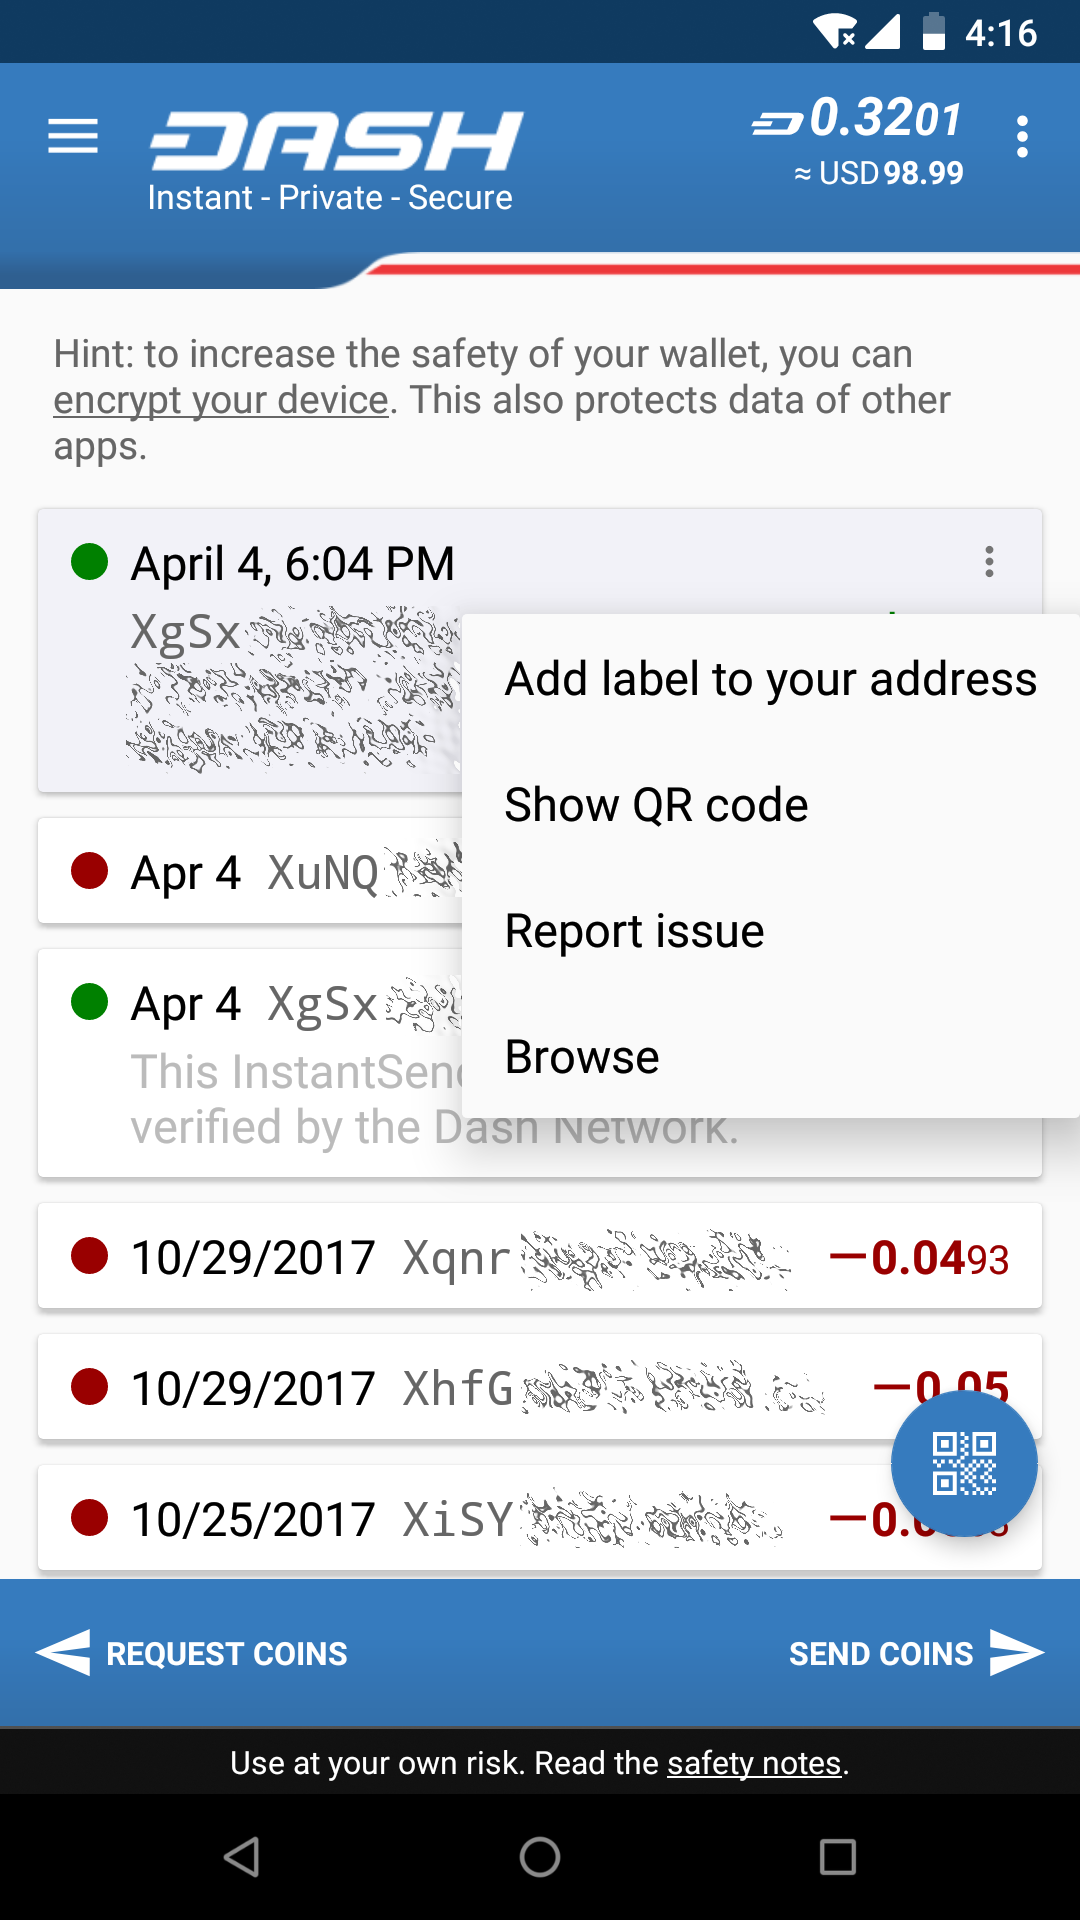
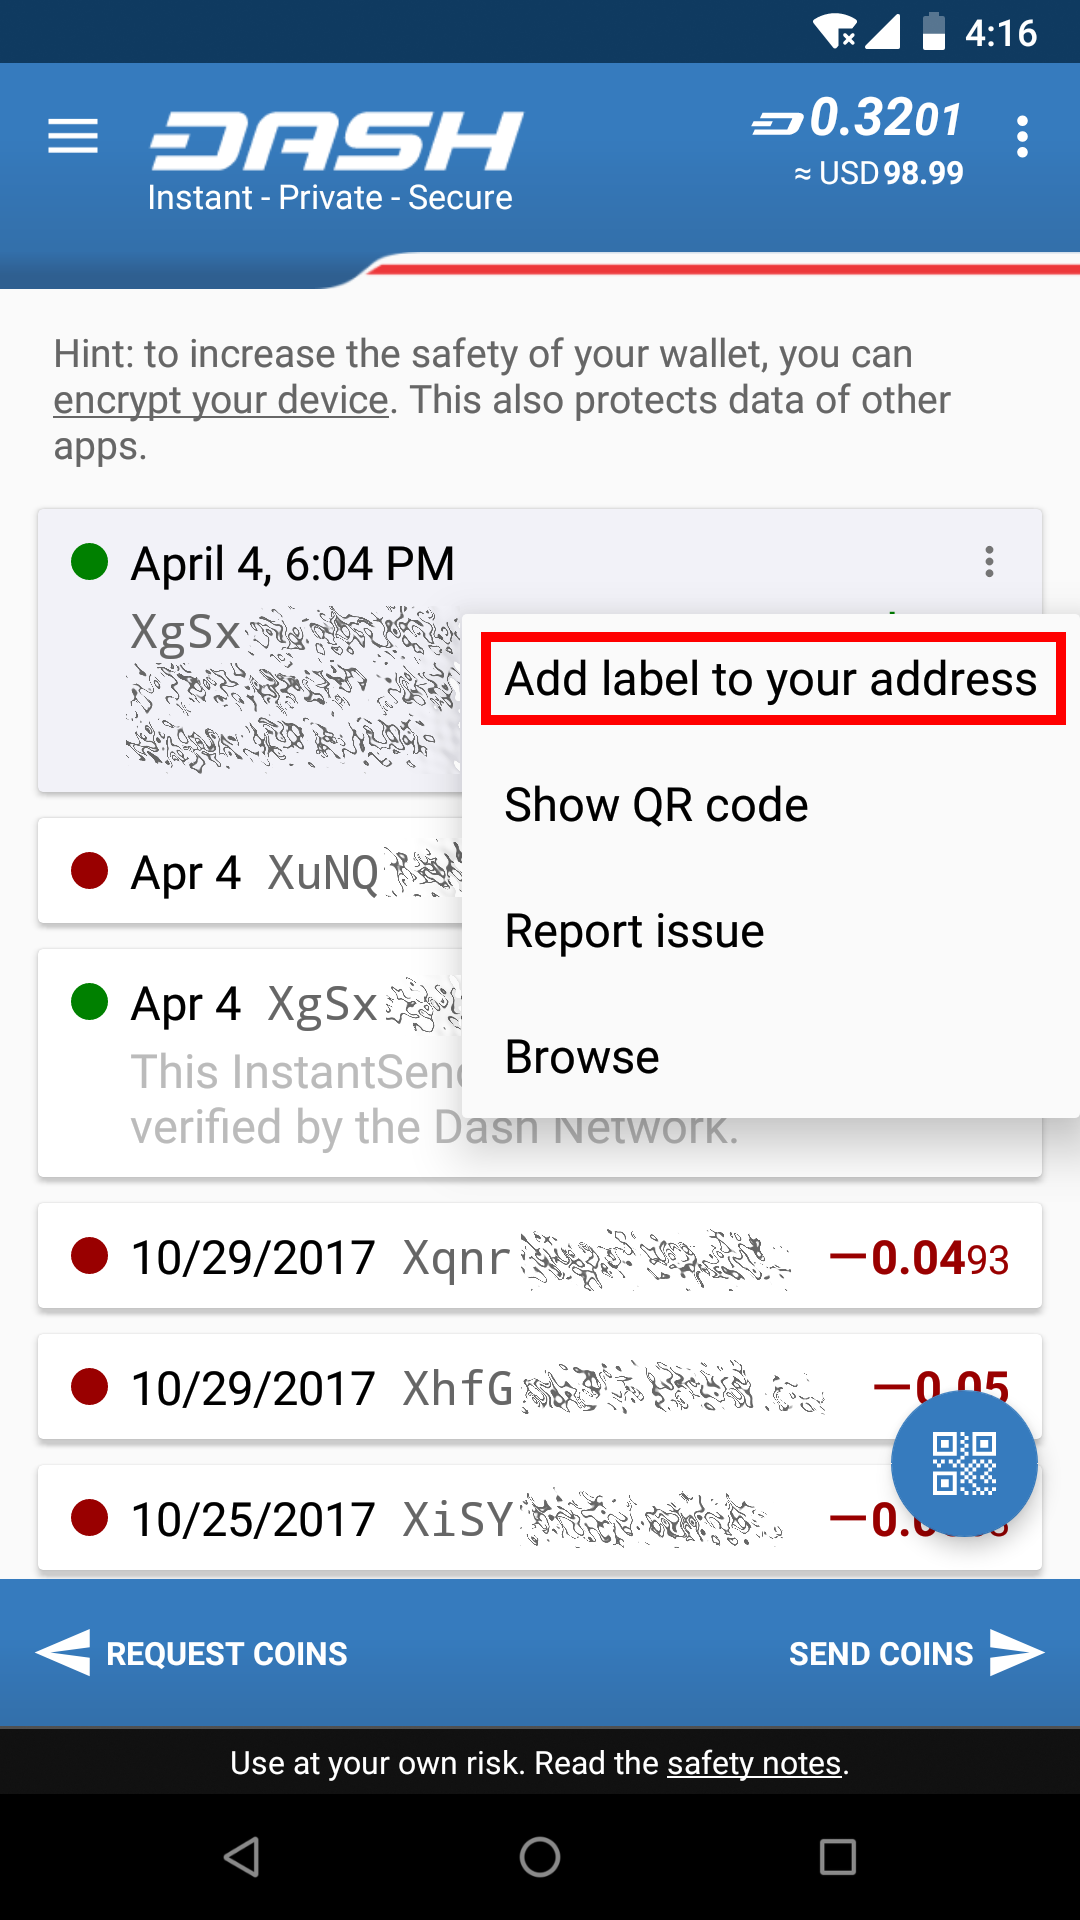
Sweep and exchange rate docs

Changed region(s): [[0.4278, 0.3125, 1.0, 0.375]]

diff --git a/wallets/android/advanced-functions.rst b/wallets/android/advanced-functions.rst
@@ -9,42 +9,40 @@ Address book
 Your Android wallet allows you to manage frequently used addresses by
 adding a label to help you identify the owner. You can also label your
 own addresses in the wallet in order to keep track of regular incoming
-payments. You can access the address book by tapping the menu button,
-then **Address book**. This will display a screen where you can swipe
-left and right between your own addresses and the addresses to which you
-frequently send Dash, such as family members for example. Tap **More
-options** button to add an address from the clipboard or by scanning a
-QR code, or tap an existing address to **Send Dash** or **Edit** the
-label.
+payments. You can access the address book by tapping the **Menu
+button**, then **Address book**. This will display a screen where you
+can swipe left and right between your own addresses and the addresses to
+which you frequently send Dash, such as family members for example. Tap
+the **More options** button to **Paste from clipboard** or to **Scan
+address* from a QR code, or tap an existing address to **Send Dash** or
+**Edit** the label.
 
 
 .. image:: img/menu-address.png
-    :width: 160 px
+   :width: 160 px
 .. image:: img/address-menu.png
-    :width: 160 px
+   :width: 160 px
 .. image:: img/address-add.png
-    :width: 160 px
-.. image:: img/address-added.png
-    :width: 160 px
+   :width: 160 px
 .. image:: img/address-tap-menu.png
-    :width: 160 px
+   :width: 160 px
 
 *Accessing the address book and adding an address*
 
 You can also add labels directly from the main transaction history
 screen by tapping the **More options** button for the transaction (three
-vertical dots) and entering or editing a label. 
+vertical dots) and selecting either **Add label to your address**,
+**Edit label of your address**, **Add sending address** or **Edit label
+of sending address**.
 
 .. image:: img/address-tx-add-own.png
-    :width: 160 px
+   :width: 160 px
 .. image:: img/address-tx-add-sending.png
-    :width: 160 px
+   :width: 160 px
 .. image:: img/address-tx-edit.png
-    :width: 160 px
+   :width: 160 px
 
 *Adding and editing address labels in transaction view*
-
-
 
 
 Exchange rates
@@ -52,20 +50,93 @@ Exchange rates
 
 Dash Wallet for Android allows you to display the equivalent value of
 your Dash balance and in transactions by selecting a default fiat
-currency. The exchange rate for this currency will appear when making
-transactions, and you can also tap in the fiat currency field to enter
-the value in that currency instead of Dash.
+currency. To select a default currency, tap the **Menu button**, then
+**Exchange rates**. Find your preferred fiat currency, then tap the
+**More options** button for that currency and select **Set as default**.
+The exchange rate for this currency will appear when sending Dash, and
+you can also tap in the fiat currency field to enter the value in the
+fiat currency directly, instead of in Dash.
+
+.. image:: img/menu-exchange.png
+   :width: 160 px
+.. image:: img/exchange-rates.png
+   :width: 160 px
+.. image:: img/exchange-default.png
+   :width: 160 px
+.. image:: img/exchange-fiat-entry.png
+   :width: 160 px
+
+*Selecting a fiat exchange rate and creating a transaction denominated
+in USD*
+
 
 Sweep paper wallet
 ------------------
 
+Sweeping a paper wallet is a method of transferring the value stored on
+an address you may have received as a paper wallet or from an ATM into
+your own wallet. You must have access to the private key for an address
+to use this function. In this process, all Dash stored on the address
+will be sent to a new address that has been deterministically generated
+from your wallet seed. The private keys you sweep do not become a part
+of your wallet.
+
+To sweep a paper wallet, tap the **Menu button** and select **Sweep
+paper wallet**. Tap the **Scan** button and scan the QR code from your
+paper wallet. Once the private key has been identified, tap **Sweep** to
+create the transaction moving the Dash into your own wallet. Once this
+transaction is confirmed, the paper is worthless and should be
+destroyed.
+
+.. image:: img/menu-sweep.png
+   :width: 160 px
+.. image:: img/sweep-start.png
+   :width: 160 px
+.. image:: img/sweep-scan.png
+   :width: 160 px
+.. image:: img/sweep-done.png
+   :width: 160 px
+
+*Sweeping a paper wallet with 0.10 DASH into the Android Wallet*
+
+
 Network monitor
 ---------------
 
+The Dash Android Wallet is a light wallet and functions in SPV mode,
+meaning it does not download a full copy of the blockchain. The network
+monitor allows you to view details about the full nodes to which you are
+connected. You can also swipe left to view blocks as they are created on
+the blockchain.
+
+.. image:: img/menu-network.png
+   :width: 160 px
+.. image:: img/network-peers.png
+   :width: 160 px
+.. image:: img/network-blocks.png
+   :width: 160 px
+
+*Viewing peers and blocks to monitor network activity*
 
 
 Settings
 --------
+
+.. image:: img/menu-settings.png
+   :width: 160 px
+.. image:: img/settings.png
+   :width: 160 px
+
+*The Settings menu in Dash Android Wallet*
+
+The settings menu contains a range of options to control the behavior of
+the Dash Android Wallet. To access the settings, tap the **Menu
+button**, then **Settings**. You can then choose between **Settings**,
+**Diagnostics** and **About**, which displays wallet version, copyright,
+license and source code information.
+
+Settings
+^^^^^^^^
 
 Denomination and precision
 
@@ -94,3 +165,7 @@ Show disclaimer
 BIP70 for scan-to-pay
 
 Look up wallet names
+
+Diagnostics
+^^^^^^^^^^^
+
